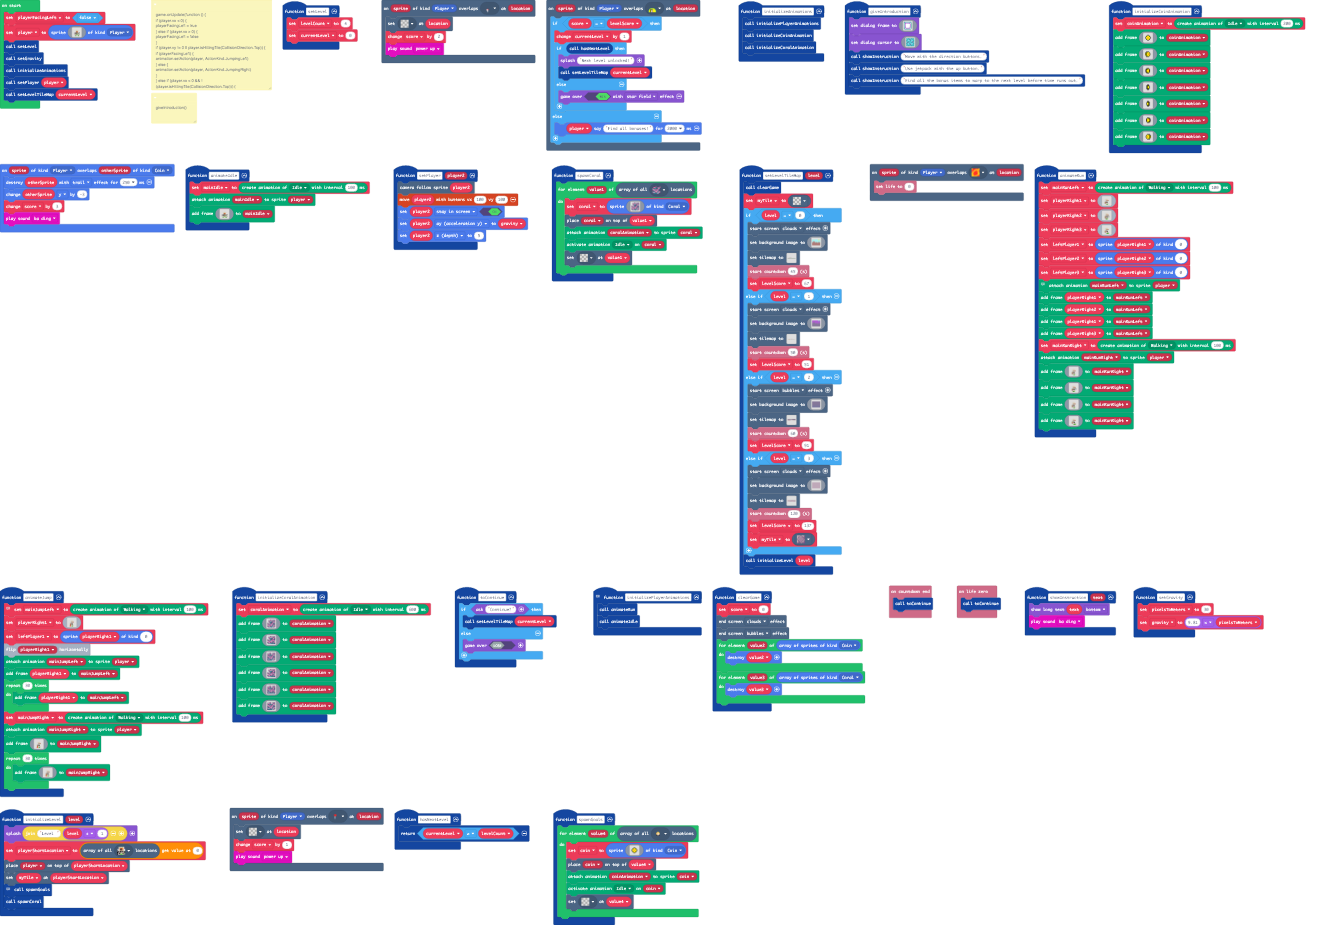
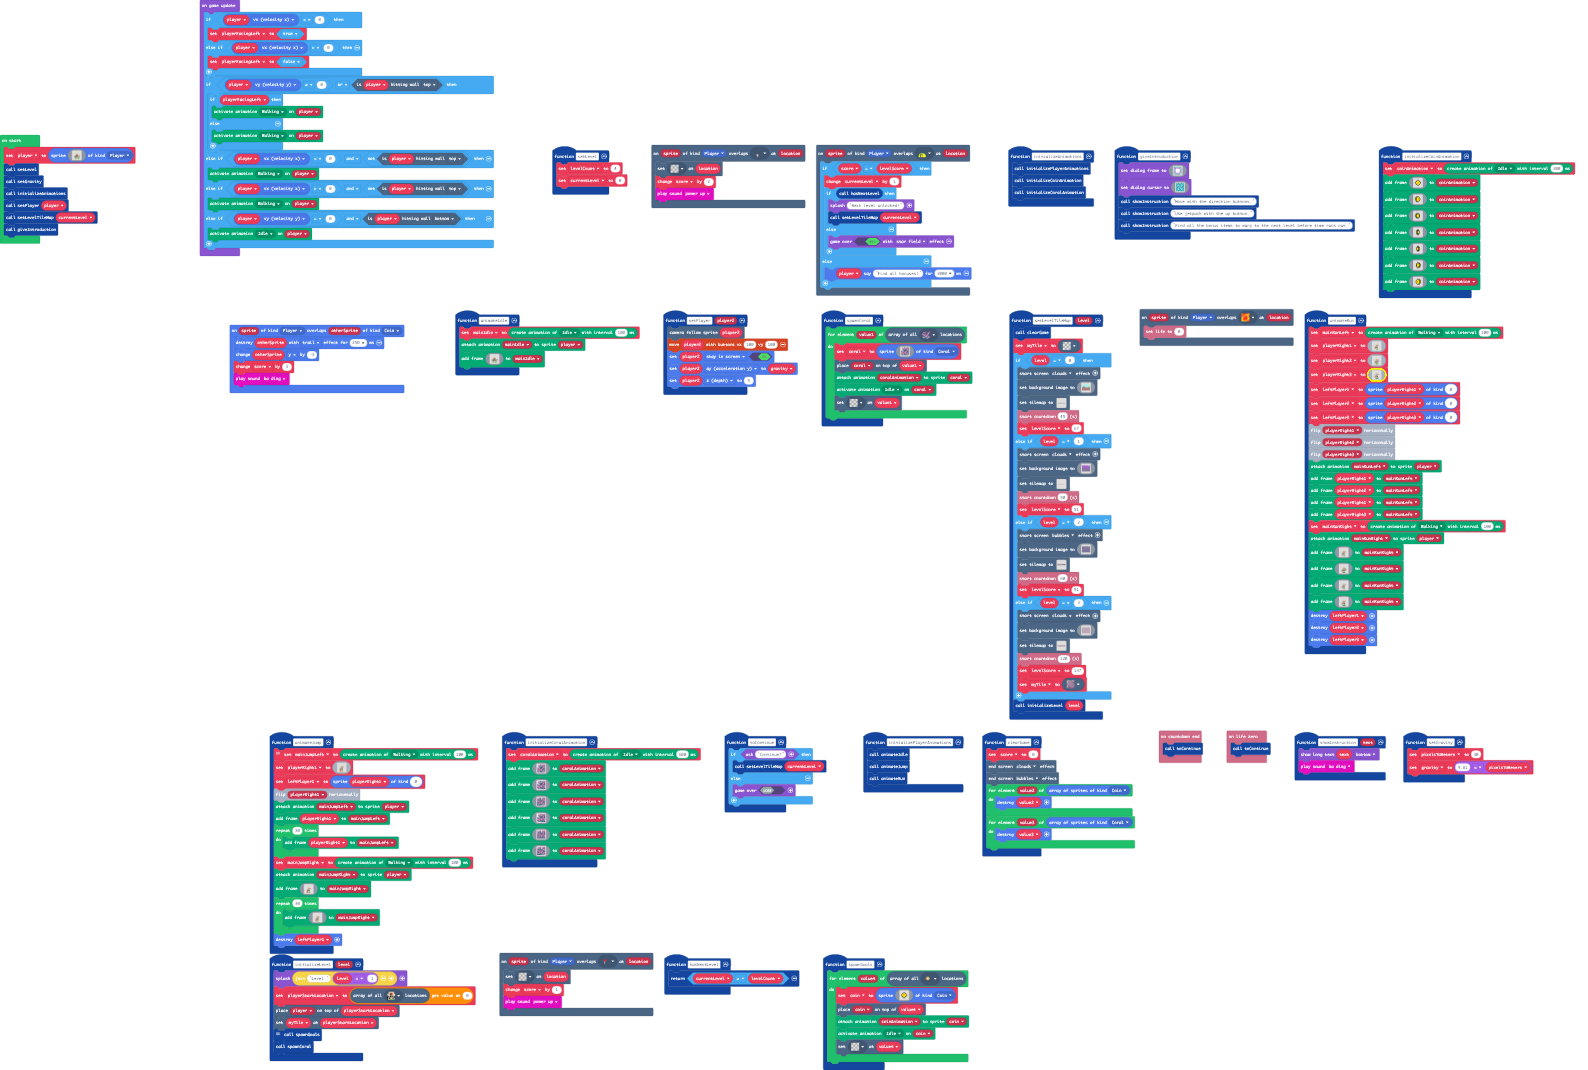
Update pxt.json, main.blocks, main.ts

diff --git a/main.ts b/main.ts
@@ -863,9 +863,9 @@ function animateRun () {
         ...........dddf11fd444..........
         ............dd1111ddd...........
         ............7d1111dd7...........
-        ...........f.ffffffd.....f......
-        ..........f4ddfddfddffff..f.....
-        .........f14ddffffdddfffff......
+        ...........f.ffffffd....f.......
+        ..........f4ddfddfddfff..f......
+        .........f14ddffffdddffff.......
         .........f74ddffffddd...........
         .........f54dddfffddd...........
         .........f24dddfdffdd...........
@@ -873,10 +873,10 @@ function animateRun () {
         .........fffdddddddd7...........
         ............ddddddd77...........
         .............ddddddd............
-        ............ffdffff.............
-        ...........777f77777............
-        ............7f7777777...........
-        .............7f7777777..........
+        ............fff.dffff...........
+        ...........7777.f77777..........
+        ............777f7777777.........
+        .............777f7777777........
         `
     playerRight3 = img`
         ................................
@@ -907,10 +907,10 @@ function animateRun () {
         .........fffdddddddd7...........
         ............ddddddd77...........
         .............dddddddff..........
-        ...............fffff777.........
-        ...............77777f777........
-        ..............7777777f777.......
-        ...............7777777f777......
+        ............fffff.fff...........
+        ............77777f.77777........
+        ...........7777777f777777.......
+        ............7777777f777777......
         `
     leftPlayer1 = sprites.create(playerRight1, 0)
     leftPlayer2 = sprites.create(playerRight2, 0)
@@ -978,8 +978,8 @@ function animateRun () {
         ...........dddf11fd444..........
         ............dd1111ddd...........
         ............7d1111dd7...........
-        ...........f.ffffffd.....f......
-        ..........f4ddfddfddffff..f.....
+        ...........f.ffffffd....ff......
+        ..........f4ddfddfddffff.ff.....
         .........f14ddffffdddfffff......
         .........f74ddffffddd...........
         .........f54dddfffddd...........
@@ -988,10 +988,10 @@ function animateRun () {
         .........fffdddddddd7...........
         ............ddddddd77...........
         .............ddddddd............
-        ............ffdffff.............
-        ...........777f77777............
-        ............7f7777777...........
-        .............7f7777777..........
+        ............ffffdffff...........
+        ...........77777f77777..........
+        ............777f7777777.........
+        .............777f7777777........
         `)
     mainRunRight.addAnimationFrame(img`
         ................................
@@ -1056,14 +1056,14 @@ function animateRun () {
         .........fffdddddddd7...........
         ............ddddddd77...........
         .............dddddddff..........
-        ...............fffff777.........
-        ...............77777f777........
-        ..............7777777f777.......
-        ...............7777777f777......
+        ............fffffffff77.........
+        ............77777f777777........
+        ...........7777777f777777.......
+        ............7777777f777777......
         `)
-        leftPlayer1.destroy()
-        leftPlayer2.destroy()
-        leftPlayer3.destroy()
+    leftPlayer1.destroy()
+    leftPlayer2.destroy()
+    leftPlayer3.destroy()
 }
 function animateJump () {
     // Because there isn't currently an easy way to say "play this animation a single time
@@ -1376,43 +1376,7 @@ function spawnGoals () {
         tiles.setTileAt(value4, myTiles.transparency16)
     }
 }
-
- game.onUpdate(function () {
- if (player.vx < 0) {
-  playerFacingLeft = true
-  
-  } else if (player.vx > 0) {
-  
-  playerFacingLeft = false
-  
-  }
-  
-  if (player.vy != 0 || player.isHittingTile(CollisionDirection.Top)) {
-  
-  if (playerFacingLeft) {
-  
-  animation.setAction(player, ActionKind.JumpingLeft)
-  
-  } else {
-  
-  animation.setAction(player, ActionKind.JumpingRight)
-  
-  }
-  
-  } else if (player.vx < 0 && !(player.isHittingTile(CollisionDirection.Top))) {
-  
-  animation.setAction(player, ActionKind.RunningLeft)
-  
-  } else if (player.vx > 0 && !(player.isHittingTile(CollisionDirection.Top))) {
-  
-  animation.setAction(player, ActionKind.RunningRight)
-  
-  } else if (player.vy == 0 && player.isHittingTile(CollisionDirection.Bottom)) {
-  
-  animation.setAction(player, ActionKind.Idle)
-  
- }
- }) 
+let playerFacingLeft = false
 let coin: Sprite = null
 let playerStartLocation: tiles.Location = null
 let pixelsToMeters = 0
@@ -1437,7 +1401,6 @@ let score = 0
 let levelCount = 0
 let currentLevel = 0
 let player: Sprite = null
-let playerFacingLeft = false
 player = sprites.create(img`
     ................................
     ................................
@@ -1478,3 +1441,23 @@ initializeAnimations()
 setPlayer(player)
 setLevelTileMap(currentLevel)
 giveIntroduction()
+game.onUpdate(function () {
+    if (player.vx < 0) {
+        playerFacingLeft = true
+    } else if (player.vx > 0) {
+        playerFacingLeft = false
+    }
+    if (player.vy != 0 || player.isHittingTile(CollisionDirection.Top)) {
+        if (playerFacingLeft) {
+            animation.setAction(player, ActionKind.JumpingLeft)
+        } else {
+            animation.setAction(player, ActionKind.JumpingRight)
+        }
+    } else if (player.vx < 0 && !(player.isHittingTile(CollisionDirection.Top))) {
+        animation.setAction(player, ActionKind.RunningLeft)
+    } else if (player.vx > 0 && !(player.isHittingTile(CollisionDirection.Top))) {
+        animation.setAction(player, ActionKind.RunningRight)
+    } else if (player.vy == 0 && player.isHittingTile(CollisionDirection.Bottom)) {
+        animation.setAction(player, ActionKind.Idle)
+    }
+})
